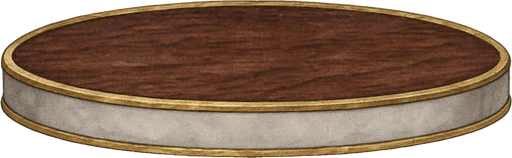
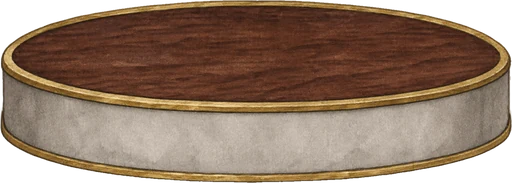
駒: 台座を高くする（側面の帯を 1.7 倍・駒の絵をその分持ち上げる）・ふちの染めが木に乗っていたのを直す
- build_pedestal.py: 側面の帯だけを列ごとに縦にのばす（TALL=1.7。上面のだ円は変えない）
- 金のふちの形に、上面の木が入っていた（銀・銅・紫の段で木の色が変わっていた）のを直す
- HeroPiece: 台座の下の端は前と同じ。高い分だけ上面と駒の絵を持ち上げる。銘板は帯の真ん中に

diff --git a/src/components/world/HeroPiece.tsx b/src/components/world/HeroPiece.tsx
@@ -42,7 +42,12 @@ export const TIER_METAL: Record<JobTier, { light: string; mid: string; dark: str
 };
 
 /** 描いた台座の絵の寸法（scripts/art/build_pedestal.py が表示する値）: 横:縦と、上面のだ円の真ん中の高さ（絵の高さに対する割合） */
-const BASE_ART = { aspect: 3.232, topCy: 0.341 };
+const BASE_ART = { aspect: 2.801, topCy: 0.295, bandMid: 0.783 };
+/** 描いた台座の置き方（駒の箱の大きさ s に対する割合）。台座の下の端は前の台座と同じ（0.942）。
+ *  台座が高い分（2026-11-15 オーナーの依頼で側面を 1.7 倍）、上面と駒の絵を lift だけ持ち上げる */
+const BASE_H = 0.96 / BASE_ART.aspect;
+const BASE_TOP = 0.942 - BASE_H;
+const BASE_LIFT = 0.746 - (BASE_TOP + BASE_ART.topCy * BASE_H);
 
 /** 絵の形でくり抜く（白い所だけ残す） */
 const maskOf = (url: string) => ({ WebkitMaskImage: `url(${url})`, maskImage: `url(${url})`, WebkitMaskSize: '100% 100%', maskSize: '100% 100%' });
@@ -84,6 +89,8 @@ export function HeroPiece({ hero, size: s, ringColor, active, hopping, stepKey, 
   const rimArt = artImage('ui/piece-base-rim');
   const plateArt = artImage(`ui/piece-plate-${tier}`);
   const gems = tier === 'top' || tier === 'special';
+  // 描いた台座は高いので、駒の絵をその分だけ持ち上げる
+  const raise = baseArt ? BASE_LIFT : 0;
   return (
     <>
       {/* 床の影（駒を持ち上げると小さく薄くなる。影は床に残る） */}
@@ -103,10 +110,10 @@ export function HeroPiece({ hero, size: s, ringColor, active, hopping, stepKey, 
       <span key={`lf${stepKey}`} className={`absolute inset-0 block ${lift}`} style={{ animationDuration: dur }}>
         {/* 台座: 描いた絵があれば絵（側面の帯だけプレイヤーの色に染める）、無ければプログラムで描く */}
         {baseArt ? (
-          // 描いた台座（scripts/art/build_pedestal.py）。横:縦 = BASE_ART.aspect。上面のだ円の真ん中を、前の台座と同じ高さ（0.746s）に置く
+          // 描いた台座（scripts/art/build_pedestal.py）。横:縦 = BASE_ART.aspect。下の端を前の台座にそろえ、高い分は上へのばす
           <span
             className="absolute"
-            style={{ left: s * 0.02, top: s * (0.746 - (0.96 / BASE_ART.aspect) * BASE_ART.topCy), width: s * 0.96, height: (s * 0.96) / BASE_ART.aspect }}
+            style={{ left: s * 0.02, top: s * BASE_TOP, width: s * 0.96, height: s * BASE_H }}
             data-piece-base={tier}
           >
             <img src={baseArt} alt="" draggable={false} decoding="async" className="absolute inset-0 h-full w-full" />
@@ -163,7 +170,7 @@ export function HeroPiece({ hero, size: s, ringColor, active, hopping, stepKey, 
             draggable={false}
             decoding="async"
             className="absolute"
-            style={{ left: -s * 0.125, top: -s * 0.47, width: s * 1.25, height: s * 1.25, filter: 'drop-shadow(0 1px 1px #000)' }}
+            style={{ left: -s * 0.125, top: -s * (0.47 + raise), width: s * 1.25, height: s * 1.25, filter: 'drop-shadow(0 1px 1px #000)' }}
           />
         ) : (
           <>
@@ -183,7 +190,7 @@ export function HeroPiece({ hero, size: s, ringColor, active, hopping, stepKey, 
       </span>
       {/* 台座の前の銘板（駒の絵より手前に描く）。台座といっしょに持ち上がる */}
       <span key={`pl${stepKey}`} className={`pointer-events-none absolute inset-0 block ${lift}`} style={{ animationDuration: dur }}>
-        <svg className="absolute" style={{ left: s * 0.39, top: s * 0.71, width: s * 0.22, height: s * 0.26, overflow: 'visible' }} viewBox="0 0 22 26" aria-hidden data-piece-plate={tier}>
+        <svg className="absolute" style={{ left: s * 0.39, top: s * (baseArt ? BASE_TOP + BASE_ART.bandMid * BASE_H - 0.12 : 0.71), width: s * 0.22, height: s * 0.26, overflow: 'visible' }} viewBox="0 0 22 26" aria-hidden data-piece-plate={tier}>
           {plateArt ? (
             <image href={plateArt} x="-1" y="-1" width="24" height="28" preserveAspectRatio="xMidYMid meet" />
           ) : (

diff --git a/scripts/art/build_pedestal.py b/scripts/art/build_pedestal.py
@@ -54,10 +54,39 @@ band = cv2.morphologyEx(band.astype(np.uint8) * 255, cv2.MORPH_CLOSE, np.ones((7
 band = cv2.morphologyEx(band, cv2.MORPH_OPEN, np.ones((5, 5), np.uint8))
 band = largest(band > 128)
 # 広げた分を、台座の中・金のふちの外に戻す
-gold = (rgb[..., 0] - rgb[..., 2] > 50) & (mx > 110)
+gold = (rgb[..., 0] - rgb[..., 2] > 50) & (mx > 110) & (rgb[..., 1] > rgb[..., 0] * 0.66)  # 木（緑が少ない赤茶）は入れない
 band = band & (rgba[..., 3] > 200) & ~gold
 band = np.where(band, 255, 0).astype(np.uint8)
 band = cv2.GaussianBlur(band, (3, 3), 0)
+# 金のふちの形（段の金属の色に染めるため）
+rim = cv2.dilate(np.where(gold & (rgba[..., 3] > 128), 255, 0).astype(np.uint8), np.ones((3, 3), np.uint8))
+rim = cv2.GaussianBlur(rim, (3, 3), 0)
+
+# 台座を高くする（2026-11-15 オーナーの依頼）: 側面の帯だけを、列ごとに縦に引きのばす（上面のだ円の形は変えない）
+TALL = float(os.environ.get('TALL', '1.7'))
+cols = np.arange(W)
+has = band.max(0) > 128
+tt = np.array([np.argmax(band[:, x] > 128) if has[x] else -1 for x in cols], float)
+bb = np.array([H - 1 - np.argmax(band[::-1, x] > 128) if has[x] else -1 for x in cols], float)
+xs_ok = cols[has]
+tt = np.interp(cols, xs_ok, tt[has])
+bb = np.interp(cols, xs_ok, bb[has])
+k5 = np.ones(15) / 15
+tt = np.convolve(np.pad(tt, 7, mode='edge'), k5, 'valid')
+bb = np.convolve(np.pad(bb, 7, mode='edge'), k5, 'valid')
+L = bb - tt
+dh = int(round(np.median(L[has]) * (TALL - 1)))
+H2 = H + dh
+yy = np.arange(H2)[:, None].astype(np.float32)
+T, B = tt[None, :], bb[None, :]
+sy = np.where(yy < T, yy, np.where(yy < B + dh, T + (yy - T) * (L[None, :] / (L[None, :] + dh)), yy - dh)).astype(np.float32)
+sx = np.broadcast_to(cols[None, :].astype(np.float32), sy.shape).copy()
+stretch = lambda a: cv2.remap(a, sx, sy, cv2.INTER_LINEAR, borderMode=cv2.BORDER_CONSTANT, borderValue=0)
+rgba = stretch(rgba)
+band = stretch(band)
+rim = stretch(rim)
+H = H2
+rgb = rgba[..., :3].astype(int)
 # 上面（木）: 赤みが強い所。だ円の寸法を測る
 wood = (rgb[..., 0] - rgb[..., 2] > 40) & (rgb[..., 1] < rgb[..., 0] * 0.62) & (rgba[..., 3] > 128)
 wood = largest(cv2.morphologyEx(wood.astype(np.uint8), cv2.MORPH_OPEN, np.ones((5, 5), np.uint8)) > 0)
@@ -66,14 +95,15 @@ k = 512 / W
 Image.fromarray(rgba).resize((512, round(H * k)), Image.LANCZOS).save(os.path.join(OUT, 'piece-base.webp'), quality=88, method=6)
 bm = np.dstack([np.full_like(band, 255)] * 3 + [band])
 Image.fromarray(bm).resize((512, round(H * k)), Image.LANCZOS).save(os.path.join(OUT, 'piece-base-band.webp'), quality=90, method=6)
-# 金のふちの形（段の金属の色に染めるため）
-rim = cv2.dilate(np.where(gold & (rgba[..., 3] > 128), 255, 0).astype(np.uint8), np.ones((3, 3), np.uint8))
-rm = np.dstack([np.full_like(rim, 255)] * 3 + [cv2.GaussianBlur(rim, (3, 3), 0)])
+rm = np.dstack([np.full_like(rim, 255)] * 3 + [rim])
 Image.fromarray(rm).resize((512, round(H * k)), Image.LANCZOS).save(os.path.join(OUT, 'piece-base-rim.webp'), quality=90, method=6)
 print('base', (512, round(H * k)), 'aspect', round(W / H, 3))
 print('top face: cx %.3f cy %.3f rx %.3f ry %.3f (幅・高さに対する割合)' % (
     (wx.min() + wx.max()) / 2 / W, (wy.min() + wy.max()) / 2 / H, (wx.max() - wx.min()) / 2 / W, (wy.max() - wy.min()) / 2 / H))
 print('band rows %.3f-%.3f' % (np.where(band.max(1) > 128)[0].min() / H, np.where(band.max(1) > 128)[0].max() / H))
+cx = W // 2
+cb = np.where(band[:, cx] > 128)[0]
+print('band at center: %.3f-%.3f mid %.3f' % (cb.min() / H, cb.max() / H, (cb.min() + cb.max()) / 2 / H))
 
 # ---------- 銘板 ----------
 pl = np.array(Image.open(os.path.join(SRC, 'piece-plates.png')).convert('RGBA'))
